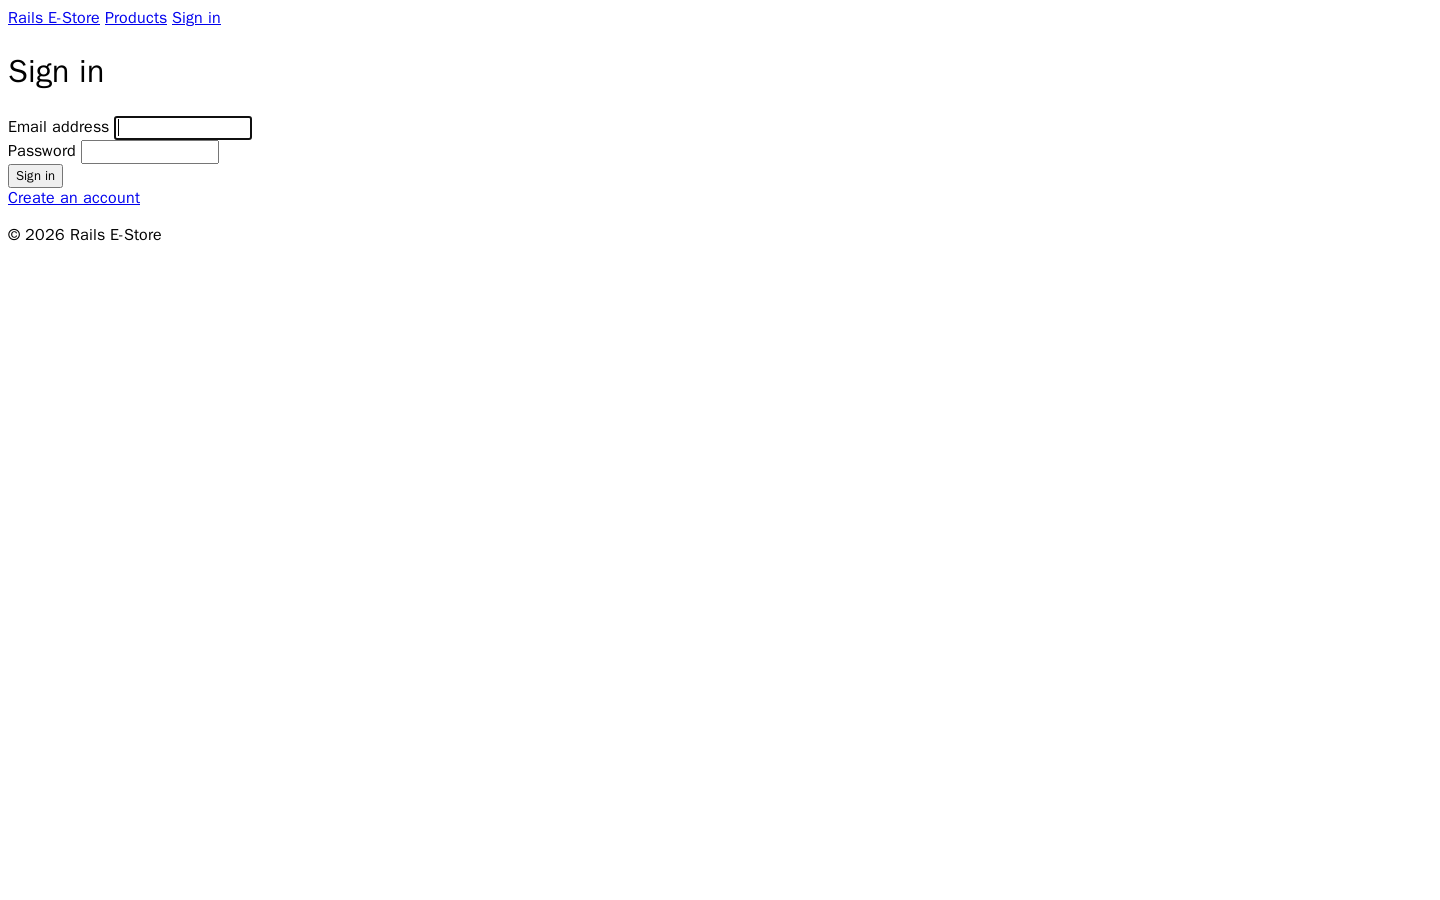
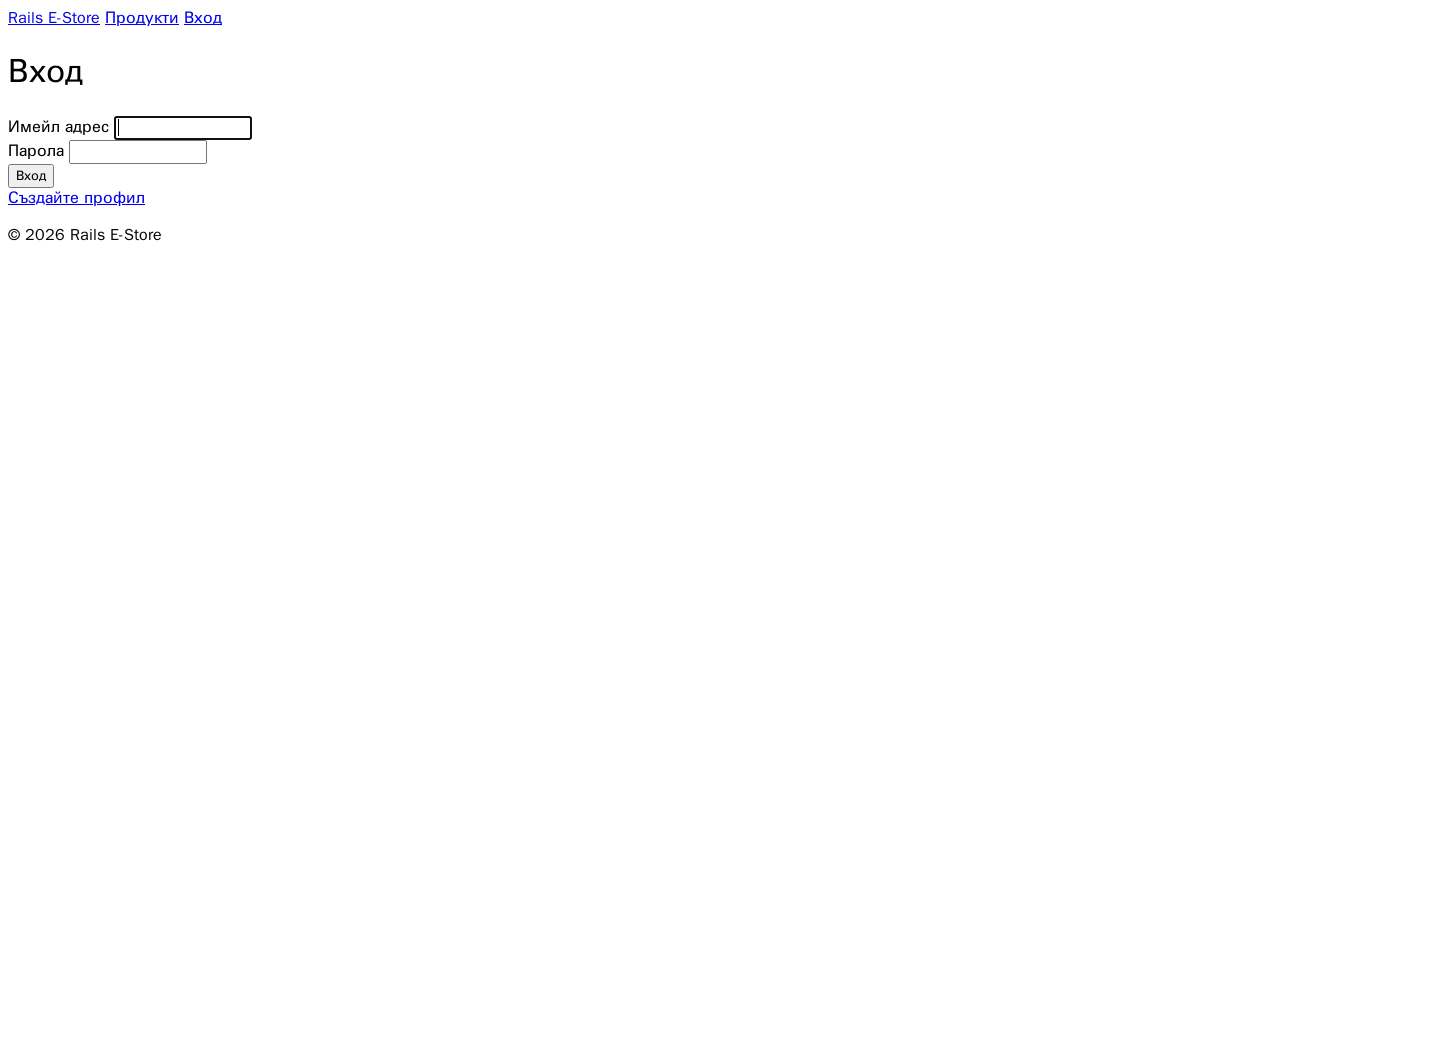
Translate the Rails e-store app UI to Bulgarian + re-shoot screenshots
The running store is now Bulgarian: views, nav (Продукти/Количка/Вход/Изход),
headings ('Разгледайте всички продукти'), search, buttons, flash messages, and the
SEO title/description defaults; layout set to lang='bg'; seeded product names +
descriptions translated (Чаша Rails, Тениска Convention Over Configuration, Пакет
стикери Omakase, Тефтер за миграции), dev-humor jokes preserved. Code identifiers,
routes, gem names, and 'Rails E-Store' brand kept as-is. Rebuilt in Docker (re-seeds
Bulgarian data) -> /up + catalog + product + login all 200; re-captured the
storefront/product/login screenshots from the live Bulgarian store (same paths).
Torn down clean. No key-shaped strings.

Note: Rails default validation error messages remain English (no config/locales/bg.yml
yet) -- can add a bg locale if wanted.

Changed region(s): [[0.0, 0.0622, 0.1875, 0.28], [0.0, 0.0, 0.1562, 0.0311]]

diff --git a/04-ai-assisted-sdlc/03-worked-examples/code/rails-estore/db/seeds.rb b/04-ai-assisted-sdlc/03-worked-examples/code/rails-estore/db/seeds.rb
@@ -8,29 +8,29 @@
 [
   {
     sku: "MUG-001",
-    name: "Rails Mug",
-    description: "A ceramic mug for Rubyists. Holds 350ml of coffee and zero N+1 queries.",
+    name: "Чаша Rails",
+    description: "Керамична чаша за Ruby разработчици. Побира 350 мл кафе и нула N+1 заявки.",
     price_cents: 1_500,
     image_url: "https://placehold.co/600x600?text=Rails+Mug"
   },
   {
     sku: "TSHIRT-001",
-    name: "Convention Over Configuration T-Shirt",
-    description: "100% cotton. Comes in exactly one size: correct.",
+    name: "Тениска Convention Over Configuration",
+    description: "100% памук. Предлага се в точно един размер — правилния.",
     price_cents: 2_500,
     image_url: "https://placehold.co/600x600?text=Rails+T-Shirt"
   },
   {
     sku: "STICKER-001",
-    name: "Omakase Sticker Pack",
-    description: "Five vinyl stickers. Weatherproof, laptop-lid-proof.",
+    name: "Пакет стикери Omakase",
+    description: "Пет винилови стикера. Устойчиви на атмосферни влияния, устойчиви на капака на лаптопа.",
     price_cents: 800,
     image_url: "https://placehold.co/600x600?text=Sticker+Pack"
   },
   {
     sku: "NOTEBOOK-001",
-    name: "Migration Notebook",
-    description: "192 dot-grid pages. Never actually reversible, unlike a real migration.",
+    name: "Тефтер за миграции",
+    description: "192 страници на точки. За разлика от истинска миграция, никога не е обратим.",
     price_cents: 1_200,
     image_url: "https://placehold.co/600x600?text=Notebook"
   }

diff --git a/04-ai-assisted-sdlc/03-worked-examples/code/rails-estore/app/controllers/sessions_controller.rb b/04-ai-assisted-sdlc/03-worked-examples/code/rails-estore/app/controllers/sessions_controller.rb
@@ -13,14 +13,14 @@ class SessionsController < ApplicationController
 
     if user&.authenticate(params[:password])
       start_new_session_for(user)
-      redirect_to after_authentication_url, notice: "Signed in."
+      redirect_to after_authentication_url, notice: "Влязохте успешно."
     else
-      redirect_to new_session_path, alert: "Invalid email or password."
+      redirect_to new_session_path, alert: "Невалиден имейл или парола."
     end
   end
 
   def destroy
     terminate_session
-    redirect_to new_session_path, notice: "Signed out."
+    redirect_to new_session_path, notice: "Излязохте успешно."
   end
 end

diff --git a/04-ai-assisted-sdlc/03-worked-examples/code/rails-estore/app/controllers/line_items_controller.rb b/04-ai-assisted-sdlc/03-worked-examples/code/rails-estore/app/controllers/line_items_controller.rb
@@ -10,12 +10,12 @@ class LineItemsController < ApplicationController
     line_item = @cart.line_items.find_or_initialize_by(product: product)
     line_item.quantity = line_item.quantity.to_i + quantity_param
     line_item.save!
-    redirect_to cart_path, notice: "Added #{product.name} to your cart."
+    redirect_to cart_path, notice: "#{product.name} беше добавен в количката ви."
   end
 
   def destroy
     @cart.line_items.find(params[:id]).destroy
-    redirect_to cart_path, notice: "Removed from your cart."
+    redirect_to cart_path, notice: "Продуктът беше премахнат от количката ви."
   end
 
   private

diff --git a/04-ai-assisted-sdlc/03-worked-examples/code/rails-estore/app/helpers/products_helper.rb b/04-ai-assisted-sdlc/03-worked-examples/code/rails-estore/app/helpers/products_helper.rb
@@ -34,8 +34,8 @@ module ProductsHelper
       "@context" => "https://schema.org",
       "@type" => "BreadcrumbList",
       "itemListElement" => [
-        { "@type" => "ListItem", "position" => 1, "name" => "Home", "item" => root_url },
-        { "@type" => "ListItem", "position" => 2, "name" => "Products", "item" => products_url },
+        { "@type" => "ListItem", "position" => 1, "name" => "Начало", "item" => root_url },
+        { "@type" => "ListItem", "position" => 2, "name" => "Продукти", "item" => products_url },
         { "@type" => "ListItem", "position" => 3, "name" => product.name, "item" => product_url(product) }
       ]
     }

diff --git a/04-ai-assisted-sdlc/03-worked-examples/code/rails-estore/app/controllers/checkout/orders_controller.rb b/04-ai-assisted-sdlc/03-worked-examples/code/rails-estore/app/controllers/checkout/orders_controller.rb
@@ -13,7 +13,7 @@ module Checkout
 
     def create
       if @cart.line_items.none?
-        redirect_to cart_path, alert: "Your cart is empty." and return
+        redirect_to cart_path, alert: "Количката ви е празна." and return
       end
 
       order = build_order_from_cart
@@ -21,7 +21,7 @@ module Checkout
       order.update!(stripe_session_id: session_data[:id], status: :processing)
       @cart.line_items.destroy_all
 
-      redirect_to checkout_order_path(order), notice: "Order placed."
+      redirect_to checkout_order_path(order), notice: "Поръчката е направена."
     end
 
     def show

diff --git a/04-ai-assisted-sdlc/03-worked-examples/code/rails-estore/app/controllers/products_controller.rb b/04-ai-assisted-sdlc/03-worked-examples/code/rails-estore/app/controllers/products_controller.rb
@@ -18,11 +18,11 @@ class ProductsController < ApplicationController
                 end
 
     set_meta_tags(
-      title: "Shop All Products",
-      description: "Browse the full Rails E-Store catalog.",
+      title: "Разгледайте всички продукти",
+      description: "Разгледайте пълния каталог на Rails E-Store.",
       canonical: products_url,
       og: {
-        title: "Shop All Products",
+        title: "Разгледайте всички продукти",
         type: "website",
         url: products_url,
         image: default_og_image

diff --git a/04-ai-assisted-sdlc/03-worked-examples/code/rails-estore/app/controllers/registrations_controller.rb b/04-ai-assisted-sdlc/03-worked-examples/code/rails-estore/app/controllers/registrations_controller.rb
@@ -19,7 +19,7 @@ class RegistrationsController < ApplicationController
 
     if @user.save
       start_new_session_for(@user)
-      redirect_to root_path, notice: "Welcome! Your account was created."
+      redirect_to root_path, notice: "Добре дошли! Профилът ви беше създаден."
     else
       render :new, status: :unprocessable_entity
     end
